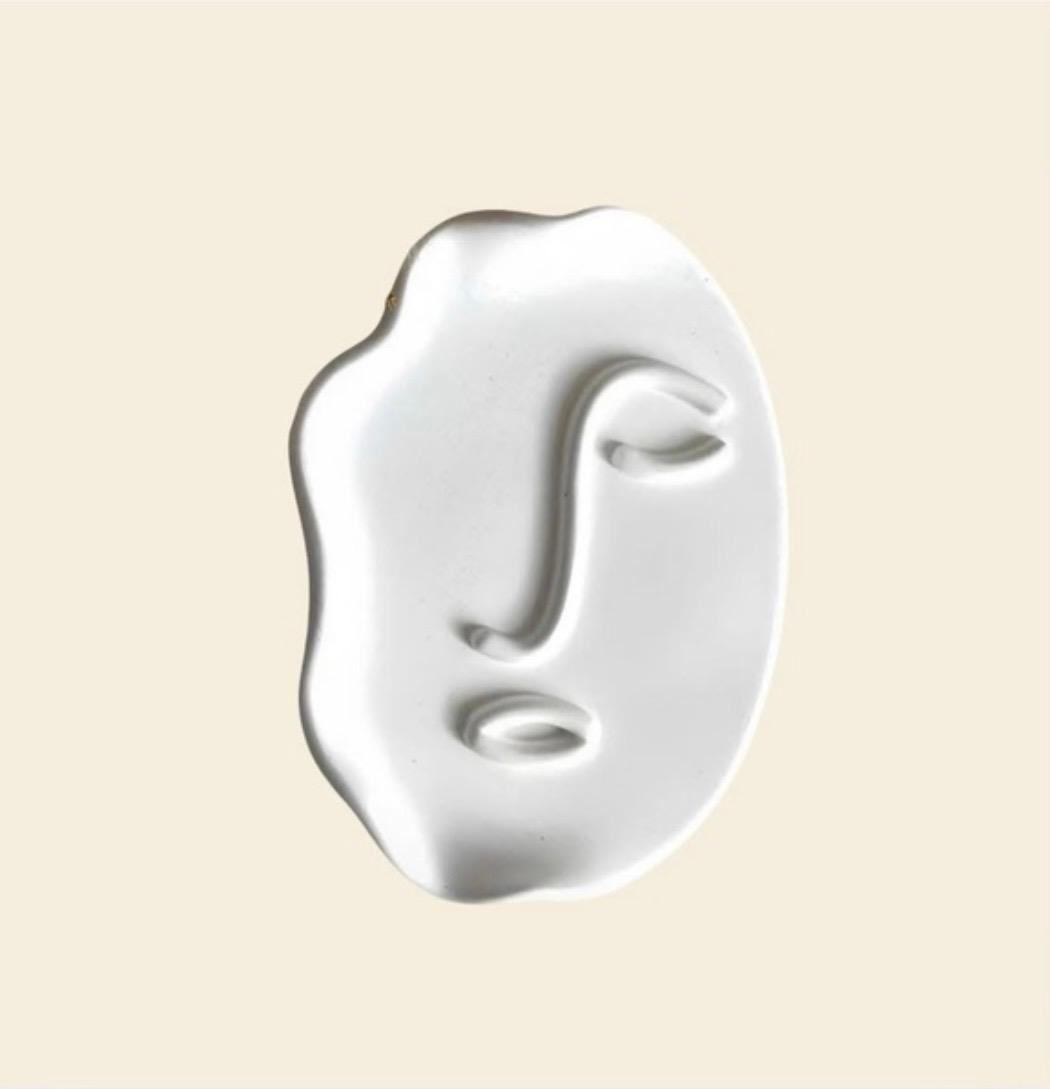
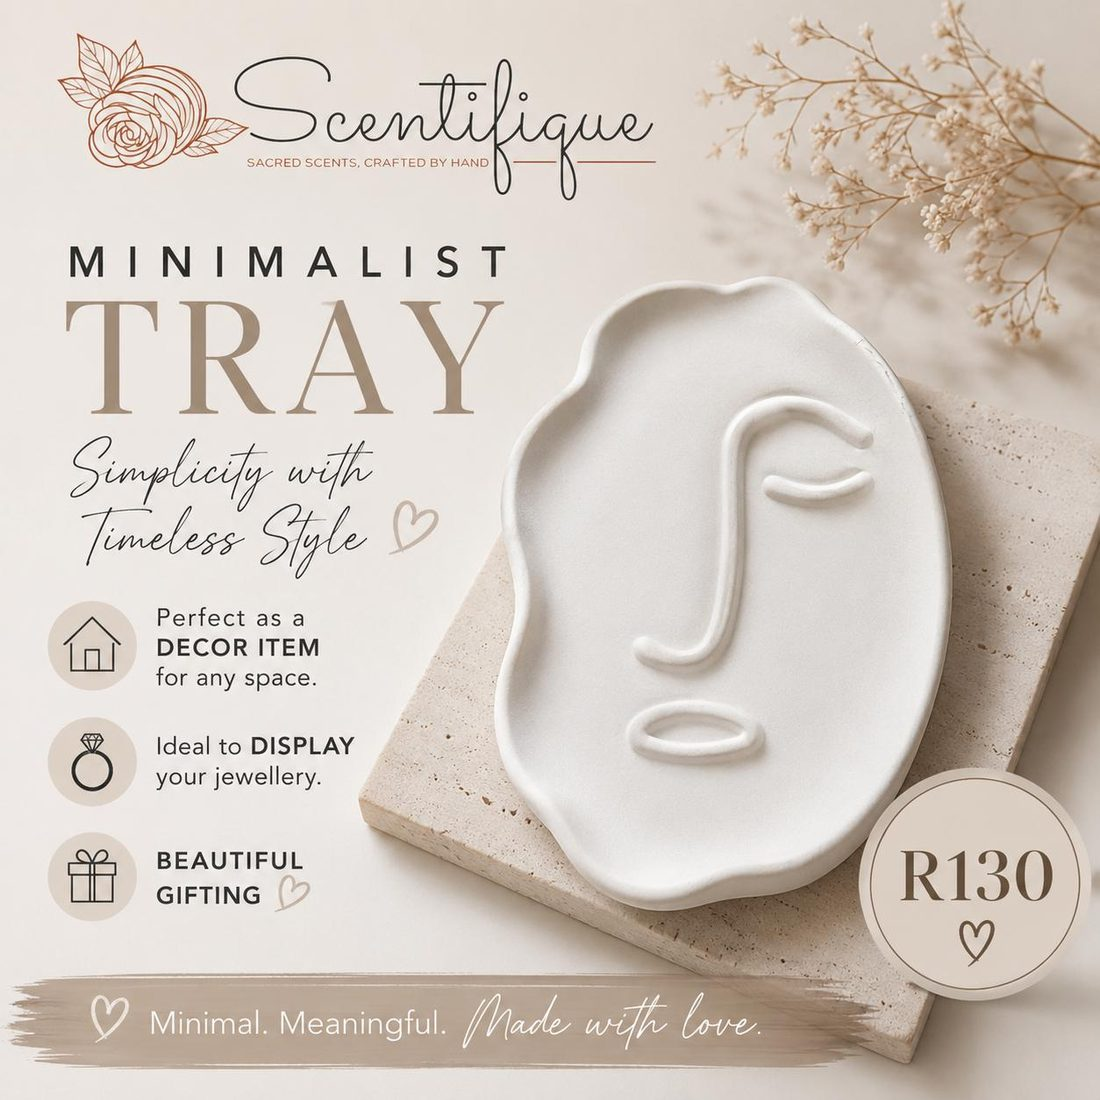
Update 6 Scentifique products with new cards and rounded prices
Photo + price updated (design unchanged, prices rounded up to whole
Rand): Centre Piece Peony Flower Diffuser (R199.99->R200), Cream
Vintage Tray with Peony Diffuser (R199.99->R200), Prayer Combo
(R399.99->R400), Scripture Tray with Flower Diffuser (R199.99->R200),
Abstract Face Tray (R129.99->R130), White Oval Tray with Heart
Diffusers (R129.99->R130).

diff --git a/scentifique.html b/scentifique.html
@@ -333,7 +333,7 @@ footer{background:var(--bg2);border-top:1px solid var(--border);padding:40px 32p
         <div class="product-name">Centre Piece Peony Flower Diffuser</div>
         <div class="product-sub">Elegant pedestal base with a large peony flower diffuser — a stunning centrepiece for any room.</div>
         <div class="colour-note">Base colours: White · Cream · Marble Effect White/Cream<br/>Flower colours: Red · Soft Lilac · Romantic Pink · White · Mint Green · Yellow</div>
-        <div class="product-footer"><span class="product-price">R199.99</span><button class="add-btn" onclick="addToCart('Centre Piece Peony Diffuser (specify base &amp; flower colour)','R199.99','scentifique-centrepiece-peony.jpeg')">+ Add to Order</button></div>
+        <div class="product-footer"><span class="product-price">R200</span><button class="add-btn" onclick="addToCart('Centre Piece Peony Diffuser (specify base &amp; flower colour)','R200','scentifique-centrepiece-peony.jpeg')">+ Add to Order</button></div>
       </div>
     </div>
 
@@ -423,7 +423,7 @@ footer{background:var(--bg2);border-top:1px solid var(--border);padding:40px 32p
         <div class="badge badge-gold">Available</div>
         <div class="product-name">Cream Vintage Tray with Peony Diffuser</div>
         <div class="product-sub">Vintage-inspired cream tray with a white peony diffuser — display and fragrance in one.</div>
-        <div class="product-footer"><span class="product-price">R199.99</span><button class="add-btn" onclick="addToCart('Cream Vintage Tray with Peony Diffuser','R199.99','scentifique-vintage-tray.jpeg')">+ Add to Order</button></div>
+        <div class="product-footer"><span class="product-price">R200</span><button class="add-btn" onclick="addToCart('Cream Vintage Tray with Peony Diffuser','R200','scentifique-vintage-tray.jpeg')">+ Add to Order</button></div>
       </div>
     </div>
 
@@ -443,7 +443,7 @@ footer{background:var(--bg2);border-top:1px solid var(--border);padding:40px 32p
         <div class="badge badge-gold">Available</div>
         <div class="product-name">White Oval Tray with Heart Diffusers</div>
         <div class="product-sub">Two textured heart diffusers on a white oval tray — add fragrance oil or display as is.</div>
-        <div class="product-footer"><span class="product-price">R129.99</span><button class="add-btn" onclick="addToCart('White Oval Tray with Heart Diffusers','R129.99','scentifique-heart-tray.jpeg')">+ Add to Order</button></div>
+        <div class="product-footer"><span class="product-price">R130</span><button class="add-btn" onclick="addToCart('White Oval Tray with Heart Diffusers','R130','scentifique-heart-tray.jpeg')">+ Add to Order</button></div>
       </div>
     </div>
 
@@ -453,7 +453,7 @@ footer{background:var(--bg2);border-top:1px solid var(--border);padding:40px 32p
         <div class="badge badge-gold">Available</div>
         <div class="product-name">Abstract Face Tray</div>
         <div class="product-sub">Unique abstract face statement piece — perfect for holding jewellery or as shelf decor.</div>
-        <div class="product-footer"><span class="product-price">R129.99</span><button class="add-btn" onclick="addToCart('Abstract Face Tray','R129.99','scentifique-abstract-face-tray.jpeg')">+ Add to Order</button></div>
+        <div class="product-footer"><span class="product-price">R130</span><button class="add-btn" onclick="addToCart('Abstract Face Tray','R130','scentifique-abstract-face-tray.jpeg')">+ Add to Order</button></div>
       </div>
     </div>
 
@@ -492,7 +492,7 @@ footer{background:var(--bg2);border-top:1px solid var(--border);padding:40px 32p
         <div class="product-name">Scripture Tray with Flower Diffuser</div>
         <div class="product-sub">Hand-painted scripture verse tray with a mini flower diffuser — a gift of hope and encouragement.</div>
         <div class="colour-note">Scripture options: Philippians 4:6 · Psalm 139:14 · Ecclesiastes 3:1 · Psalm 46:5<br/>Flower colours: White · Red · Soft Lilac · Romantic Pink · Mint Green · Yellow · Powder Blue</div>
-        <div class="product-footer"><span class="product-price">R199.99</span><button class="add-btn" onclick="addToCart('Scripture Tray with Flower Diffuser (specify scripture &amp; flower colour)','R199.99','scentifique-scripture-tray.jpeg')">+ Add to Order</button></div>
+        <div class="product-footer"><span class="product-price">R200</span><button class="add-btn" onclick="addToCart('Scripture Tray with Flower Diffuser (specify scripture &amp; flower colour)','R200','scentifique-scripture-tray.jpeg')">+ Add to Order</button></div>
       </div>
     </div>
 
@@ -502,7 +502,7 @@ footer{background:var(--bg2);border-top:1px solid var(--border);padding:40px 32p
         <div class="badge badge-gold">Available</div>
         <div class="product-name">Prayer Combo</div>
         <div class="product-sub">Gift set with castle oil burner, scripture tray (Philippians 4:6), heart diffuser, fragrance oil, prayer notepad and pencil.</div>
-        <div class="product-footer"><span class="product-price">R399.99</span><button class="add-btn" onclick="addToCart('Prayer Combo Gift Set','R399.99','scentifique-prayer-combo.jpeg')">+ Add to Order</button></div>
+        <div class="product-footer"><span class="product-price">R400</span><button class="add-btn" onclick="addToCart('Prayer Combo Gift Set','R400','scentifique-prayer-combo.jpeg')">+ Add to Order</button></div>
       </div>
     </div>
 
